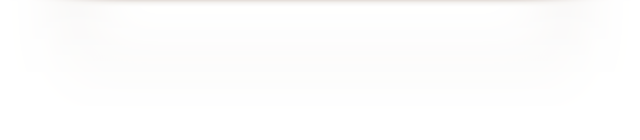
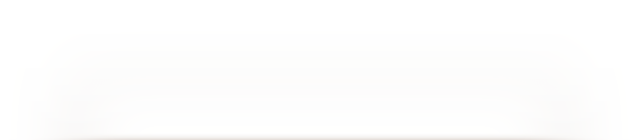
Add stylesheets of restaurant infor page.

Changed region(s): [[0.125, 0.9714, 0.875, 1.0], [0.125, 0.0, 0.875, 0.0286]]

diff --git a/assets/scss/mobile/_sprites.scss b/assets/scss/mobile/_sprites.scss
@@ -17,35 +17,46 @@
 	background-position: $x * (-26px)  $y * (-26px);
 }
 
-.icon-member              	{ @include icon-offset( 0,  0); }
-.icon-member:hover			{ @include icon-offset( 1,  0); }
+.icon-member              	{ @include icon-offset(0, 0); }
+.icon-member:hover			{ @include icon-offset(1, 0); }
+.icon-member.small			{ @include icon-offset(8, 3); }
 
-.icon-back					{ @include icon-offset( 2,  0); }
-.icon-back:hover			{ @include icon-offset( 3,  0); }
+.icon-back					{ @include icon-offset(2, 0); }
+.icon-back:hover			{ @include icon-offset(3, 0); }
 
-.icon-cancel				{ @include icon-offset( 4,  0); }
-.icon-cancel:hover			{ @include icon-offset( 5,  0); }
+.icon-cancel				{ @include icon-offset(4, 0); }
+.icon-cancel:hover			{ @include icon-offset(5, 0); }
 
-.icon-confirm				{ @include icon-offset( 0,  1); }
-.icon-confirm:hover			{ @include icon-offset( 1,  1); }
+.icon-confirm				{ @include icon-offset(0, 1); }
+.icon-confirm:hover			{ @include icon-offset(1, 1); }
 
-.icon-edit					{ @include icon-offset( 2,  1); }
-.icon-edit:hover			{ @include icon-offset( 3,  1); }
+.icon-edit					{ @include icon-offset(2, 1); }
+.icon-edit:hover			{ @include icon-offset(3, 1); }
 
-.icon-plus					{ @include icon-offset( 4,  1); }
-.icon-plus:hover			{ @include icon-offset( 5,  1); }
+.icon-plus					{ @include icon-offset(4, 1); }
+.icon-plus:hover			{ @include icon-offset(5, 1); }
 
-.icon-setting				{ @include icon-offset( 6,  1); }
-.icon-setting:hover			{ @include icon-offset( 7,  1); }
+.icon-setting				{ @include icon-offset(6, 1); }
+.icon-setting:hover			{ @include icon-offset(7, 1); }
 
-.icon-share					{ @include icon-offset( 8,  1); }
-.icon-share:hover			{ @include icon-offset( 9,  1); }
+.icon-share					{ @include icon-offset(8, 1); }
+.icon-share:hover			{ @include icon-offset(9, 1); }
 
-.icon-locate				{ @include icon-offset( 0,  2); }
-.icon-locate:hover			{ @include icon-offset( 1,  2); }
+.icon-locate				{ @include icon-offset(0, 2); }
+.icon-locate:hover			{ @include icon-offset(1, 2); }
 
-.icon-favorite				{ @include icon-offset( 2,  2); }
-.icon-favorite:hover		{ @include icon-offset( 3,  2); }
+.icon-favorite				{ @include icon-offset(2, 2); }
+.icon-favorite:hover		{ @include icon-offset(3, 2); }
 
-.icon-map-marker			{ @include icon-offset( 4,  2); }
-.icon-map-marker:hover		{ @include icon-offset( 5,  2); }
+.icon-map-marker			{ @include icon-offset(4, 2); }
+.icon-map-marker:hover		{ @include icon-offset(5, 2); }
+.icon-map-marker.small		{ @include icon-offset(0, 3); }
+
+.icon-car					{ @include icon-offset(1, 3); }
+.icon-tag					{ @include icon-offset(2, 3); }
+.icon-chat					{ @include icon-offset(3, 3); }
+.icon-calendar				{ @include icon-offset(4, 3); }
+.icon-group					{ @include icon-offset(5, 3); }
+.icon-clock					{ @include icon-offset(6, 3); }
+.icon-pencil				{ @include icon-offset(7, 3); }
+.icon-phone					{ @include icon-offset(9, 3); }

diff --git a/assets/js/app/templates.js b/assets/js/app/templates.js
@@ -10,7 +10,7 @@ MeiweiApp.Templates = {
 	'recommend-list-item': Mustache.compile('<!--<h1>{{rank}} {{ restaurant.fullname }}</h1>--><img src="http://www.clubmeiwei.com/upload/{{ restaurant.frontpic }}" alt="" >'),
 	'restaurant-list-item': Mustache.compile('<header>    <h1>{{ fullname }}</h1></header><article>    <p>{{ address }}</p>    <p>{{ discount }}</p></article>'),
 	'restaurant-order-form': Mustache.compile('<form id="restaurant-order-form"><fieldset><legend>{{ restaurant.fullname }}</legend><div><label>日期</label><input type="date" name="orderdate" value="{{ order.orderdate }}" /></div><div><label>时间</label><input type="time" name="ordertime" value="{{ order.ordertime }}" /></div><div><label>人数</label><input type="number" name="personnum" value="{{ order.personnum }}" /></div><div><label>联系人</label><input type="text" name="contactname" value="{{ order.contactname }}"/><input type="text" name="contactphone" value="{{ order.contactphone }}"/></div><div><textarea name="other" placeholder="其他要求">{{ order.other }}</textarea></div><button id="submit-order">提交</button></fieldset></form>'),
-	'restaurant-picture': Mustache.compile('<img src="http://www.clubmeiwei.com/upload/{{ path }}" alt="{{ caption }}" width="100" height="100" >'),
-	'restaurant-profile-box': Mustache.compile('<header>    <h1>{{ fullname }}</h1></header><article><p>{{ address }}</p>    <p>{{ discount }}</p></article><div>    <a href="#restaurant/{{ id }}/order" id="order-button">订餐</a></div>'),
+	'restaurant-picture': Mustache.compile('http://www.clubmeiwei.com/upload/{{{ path }}}'),
+	'restaurant-profile-box': Mustache.compile('<article><p>{{ description }}</p></article><section class="information"><p>{{ address }}</p><p>{{ address }}</p><p>{{ address }}</p><p>{{ address }}</p></section><section><!--<a href="#restaurant/{{ id }}/order" id="order-button">订餐</a>--></section>'),
 	'restaurant-review': Mustache.compile('<h2>{{ member }}</h2><p>{{ comments }}</p><p>{{ time_created }}</p><p><span>{{ score }}</span><span>{{ service_score }}</span><span>{{ ambience_score }}</span><span>{{ food_score }}</span></p>')
 };

diff --git a/assets/scss/mobile/_variables.scss b/assets/scss/mobile/_variables.scss
@@ -43,9 +43,9 @@ $sansFontFamily:        "Microsoft Yahei", "Helvetica Neue", Helvetica, Arial, s
 $serifFontFamily:       Georgia, "Times New Roman", Times, serif !default;
 $monoFontFamily:        Monaco, Menlo, Consolas, "Courier New", monospace !default;
 
-$baseFontSize:          14px !default;
+$baseFontSize:          16px !default;
 $baseFontFamily:        $sansFontFamily !default;
-$baseLineHeight:        14px !default;
+$baseLineHeight:        20px !default;
 $altFontFamily:         $serifFontFamily !default;
 
 $headingsFontFamily:    inherit !default; // empty to use BS default, $baseFontFamily
@@ -55,11 +55,11 @@ $headingsColor:         inherit !default; // empty to use BS default, $textColor
 
 // Component sizing
 // -------------------------
-// Based on 14px font-size and 20px line-height
+// Based on 16px font-size and 26px line-height
 
 $fontSizeLarge:         18px !default;
-$fontSizeSmall:         12px !default;
-$fontSizeMini:          10px !default;
+$fontSizeSmall:         14px !default;
+$fontSizeMini:          12px !default;
 
 $paddingLarge:          9px 17px !default;
 $paddingSmall:          2px 10px !default;
@@ -132,7 +132,13 @@ $placeholderText:         $brownLight !default;
 
 // Navbar
 // -------------------------
-$navbarBackgroundImagePath:		  "../img/navbar@2x.png" !default;;
+$bannerImagePath:		  "../img/navbar@2x.png" !default;
+
+
+// Navbar
+// -------------------------
+$gradientShadowPath:	  "../img/gradient-shadow@2x.png" !default;
+$gradientShadowPathR:	  "../img/gradient-shadow-r@2x.png" !default;
 
 
 // Form states and alerts
@@ -152,17 +158,4 @@ $successBorder:           darken(adjust-hue($successBackground, -10), 5%) !defau
 $infoText:                #3a87ad !default;
 $infoBackground:          #d9edf7 !default;
 $infoBorder:              darken(adjust-hue($infoBackground, -10), 7%) !default;
-
-
-
-// GRID
-// --------------------------------------------------
-
-
-// Default 940px grid
-// -------------------------
-
-
-// Fluid grid
-// -------------------------
 

diff --git a/assets/scss/pages/_restaurant.scss b/assets/scss/pages/_restaurant.scss
@@ -1,4 +1,85 @@
-.restaurant-list-item {
-	height: 125px;
-	overflow: hidden;
+#view-restaurant-search {
+
+	.restaurant-list-item {
+		height: 125px;
+		overflow: hidden;
+	}
+
 }
+
+#view-restaurant {
+
+	.restaurant-pictures {
+		@include flex-box($orient: vertical);
+		height: 250px;
+		width: 100%;
+		overflow: hidden;
+		img {
+			width: auto;
+			max-width: none;
+			height: 100%;
+		}
+	}
+	
+	.restaurant-profile {
+		@include flex-box($orient: vertical);
+		
+		padding: 0 17px;
+		
+		border-width: 0 0 1px;
+		border-style: solid;
+		border-color: $brownLight;
+		
+		font-size: $fontSizeMini;
+		line-height: $fontSizeMini;
+		
+		article {
+			padding: 10px 0;
+			height: 3 * $baseLineHeight;
+			color: $brown;
+			p {
+				height: 100%;
+				width: 100%;
+				text-overflow: ellipsis;
+				overflow: hidden;
+				line-height: $baseLineHeight;
+			}
+			background-image: url($gradientShadowPath);
+			background-repeat: repeat-x;
+			background-size: 100% (3*$baseLineHeight);
+			background-position: bottom;
+		}
+		
+		section.information  {
+			color: $brownDark;
+			margin: 16px 0;
+			p {
+				margin: 16px 0;
+			}
+		}
+		
+	}
+	
+	.restaurant-reviews {
+		
+	}
+	
+	.callus-button {
+		padding: 0 17px;
+		height: 60px;
+		background-image: url($gradientShadowPathR);
+		background-repeat: repeat-x;
+		background-size: 100% 60px;
+		background-position: top;
+	}
+
+}
+
+
+
+
+
+
+
+
+

diff --git a/assets/js/app/views/restaurant.js b/assets/js/app/views/restaurant.js
@@ -5,7 +5,12 @@ MeiweiApp.Views.RestaurantProfileBox = MeiweiApp.ModelView.extend({
 
 MeiweiApp.Views.RestaurantPictureList = MeiweiApp.CollectionView.extend({
 	ModelView: MeiweiApp.ModelView.extend({
+		tagName: 'img',
 		template: MeiweiApp.Templates['restaurant-picture'],
+		render: function() {
+			this.$el.attr('src', this.template(this.model.toJSON()));
+			return this;
+		}
 	})
 });
 
@@ -35,10 +40,12 @@ MeiweiApp.Pages.Restaurant = new (MeiweiApp.PageView.extend({
 		_.bindAll(this, 'renderRestaurantProfileBox')
 	},
 	renderRestaurantProfileBox: function() {
+		this.$('> header h1').html(this.restaurant.get('fullname'));
 		this.restaurant.pictures.fetch({reset: true});
 		this.restaurant.reviews.fetch({reset: true});
 	},
 	show: function(rid) {
+		this.restaurant.clear();
 		this.restaurant.set({id: rid});
 		this.restaurant.fetch({ success: this.renderRestaurantProfileBox });
 		this.slideIn();

diff --git a/assets/scss/pages/_home.scss b/assets/scss/pages/_home.scss
@@ -1,22 +1,24 @@
-.recommend-flow {
-	@include flex-box($orient: vertical, $direction: reverse);
-}
-
-.recommend-list-item {
-	height: 125px;
-	overflow: display;
-	position: relative;
-	
-	img {
-		width: 100%;
-		height: 249px;
-		border-width: 0 0 1px;
-		border-style: solid;
-		border-color: $brown;
+#view-home {
+	.recommend-flow {
+		@include flex-box($orient: vertical, $direction: reverse);
 	}
 	
-	&.hero + & {
-		opacity: 0;
-		@include transition(opacity .35s ease-in-out);
+	.recommend-list-item {
+		height: 125px;
+		overflow: display;
+		position: relative;
+		
+		img {
+			width: 100%;
+			height: 249px;
+			border-width: 0 0 1px;
+			border-style: solid;
+			border-color: $brown;
+		}
+		
+		&.hero + .recommend-list-item {
+			opacity: 0;
+			@include transition(opacity .35s ease-in-out);
+		}
 	}
 }

diff --git a/mobile/view-restaurant.html b/mobile/view-restaurant.html
@@ -1,10 +1,15 @@
 <div class="view view-hidden" id="view-restaurant">
-    <header></header>
+    <header>
+		<i class="icon-back"></i>
+		<h1></h1>
+		<i class="icon-favorite"></i>
+	</header>
     <div class="scroll">
 	    <div class="wrapper">
-			<section class="restaurant-profile"></section>
 	       	<section class="restaurant-pictures"></section>
+	       	<section class="restaurant-profile"></section>
 	       	<section class="restaurant-reviews"></section>
+	       	<section class="callus-button"></section>
 	    </div>
     </div>
 </div>

diff --git a/assets/template/restaurants/restaurant-profile-box.html b/assets/template/restaurants/restaurant-profile-box.html
@@ -1,11 +1,12 @@
-<header>
-    <h1>{{ fullname }}</h1>
-</header>
 <article>
-	<p>{{ address }}</p>
-    <p>{{ discount }}</p>
+	<p>{{ description }}</p>
 </article>
-<div>
-    <a href="#restaurant/{{ id }}/order" id="order-button">订餐</a>
-</div>
-
+<section class="information">
+	<p>{{ address }}</p>
+	<p>{{ address }}</p>
+	<p>{{ address }}</p>
+	<p>{{ address }}</p>
+</section>
+<section>
+	<!--<a href="#restaurant/{{ id }}/order" id="order-button">订餐</a>-->
+</section>

diff --git a/assets/js/app/models/restaurants.js b/assets/js/app/models/restaurants.js
@@ -53,9 +53,13 @@ MeiweiApp.Models.Restaurant = MeiweiApp.Model.extend({
 	},
 	parse: function(response) {
 		this.initialize();
+		this.hours.reset();
 		this.hours.url = response.hours;
+		this.reviews.reset();
 		this.reviews.url = response.reviews;
+		this.pictures.reset();
 		this.pictures.url = response.pictures;
+		this.floorplans.reset();
 		this.floorplans.url = response.floorplans;
 		return response;
 	}

diff --git a/assets/scss/mobile/_navbar.scss b/assets/scss/mobile/_navbar.scss
@@ -22,14 +22,14 @@ $navbarPadding:		17px !default;
 		width: 100%;
 		height: $bannerHeight;
 		margin: 0 (-$navbarPadding);
-		background-image: url($navbarBackgroundImagePath);
+		background-image: url($bannerImagePath);
 		background-repeat: repeat-x;
 		background-size: contain;
 	}
 }
 
 .view > header h1 {
-	padding: 0;
+	padding: 0 5px;
 	margin: 0;
 	
 	text-align: center;

diff --git a/mobile/view-home.html b/mobile/view-home.html
@@ -1,8 +1,8 @@
 <div class="view view-hidden" id="view-home">
 	<header>
-		<div class="header-btn icon-member"></div>
+		<i class="icon-member"></i>
 		<input type="search" />
-		<div class="header-btn icon-map-marker"></div>
+		<i class="icon-map-marker"></i>
 	</header>
 	<div class="scroll">
 		<div class="wrapper">

diff --git a/assets/scss/mobile/_layouts.scss b/assets/scss/mobile/_layouts.scss
@@ -25,7 +25,6 @@ $view-max-width: 320px;
 
 .view > .scroll{
 	@include flexible();
-	@include flex-box($orient: vertical);
 	position: relative;
 	padding: 0;
 	margin: 0;
